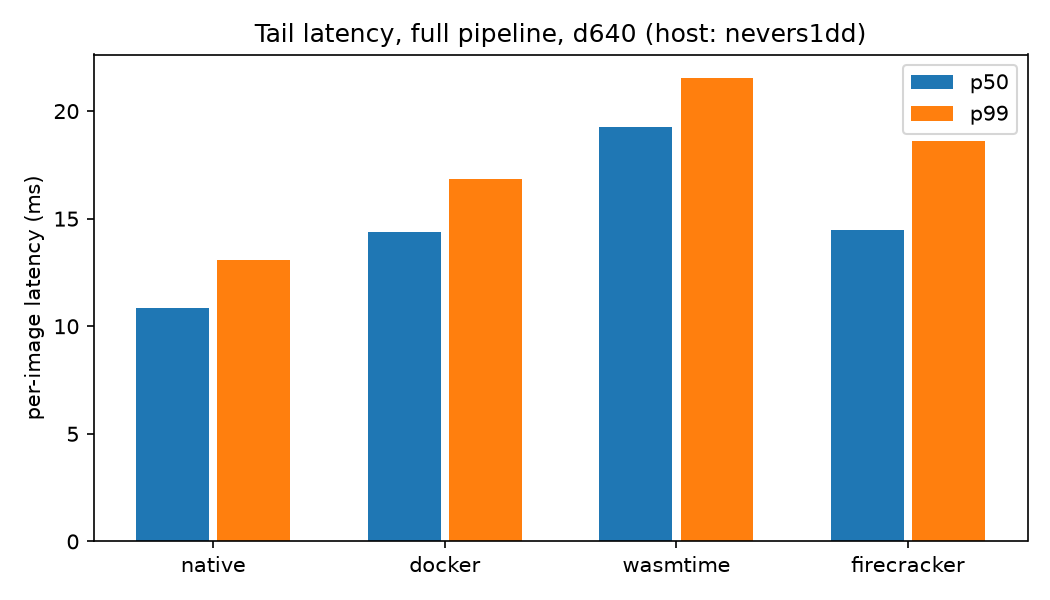
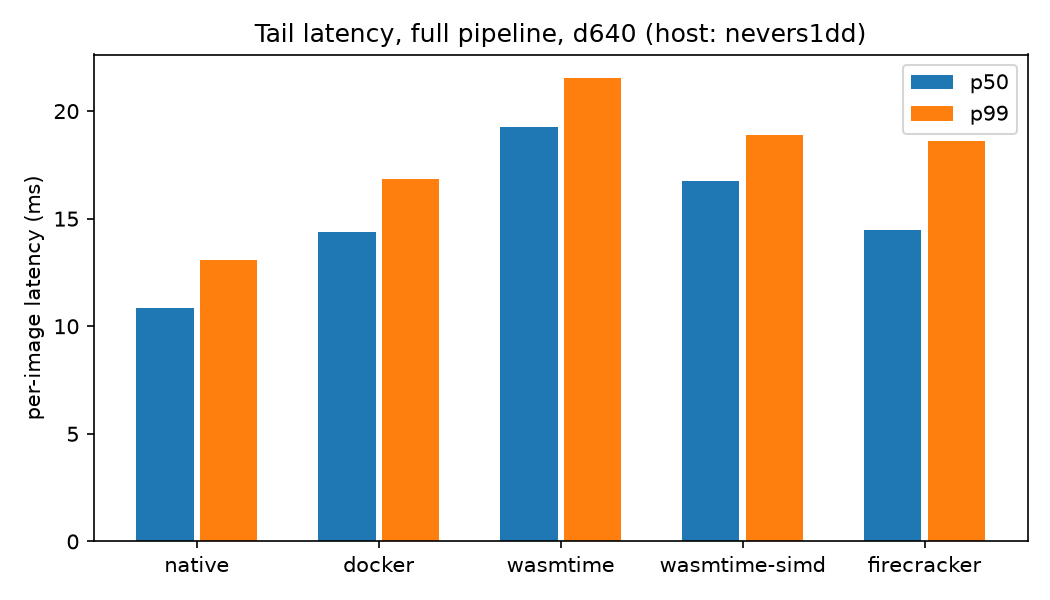
add wasmtime-simd target (+simd128 build): recovers 11-20% throughput, d640 gap narrows to -13.5%

diff --git a/scripts/bench.py b/scripts/bench.py
@@ -15,6 +15,7 @@ Targets:
   native      host binary (target/release/imgpipe)
   musl        static musl binary (what ships in the container/rootfs)
   wasmtime    wasmtime CLI with WASI preopens (tools/wasmtime/wasmtime)
+  wasmtime-simd  same module built with -C target-feature=+simd128
   docker      `docker run --rm imgpipe:local` (dataset baked into image)
   ctr-ctr     `sudo ctr run` runc container (image: localhost/cc-imgpipe:local)
   ctr-wasm    `sudo ctr run --runtime io.containerd.wasmtime.v1` (localhost/cc-imgpipe-wasm:local)
@@ -46,6 +47,7 @@ DATASETS = {
 BIN_NATIVE = os.path.join(ROOT, "target/release/imgpipe")
 BIN_MUSL = os.path.join(ROOT, "target/x86_64-unknown-linux-musl/release/imgpipe")
 BIN_WASM = os.path.join(ROOT, "target/wasm32-wasip1/release/imgpipe.wasm")
+BIN_WASM_SIMD = os.path.join(ROOT, "target-simd/wasm32-wasip1/release/imgpipe.wasm")
 WASMTIME = os.environ.get(
     "WASMTIME_BIN", os.path.join(ROOT, "tools/wasmtime/wasmtime")
 )
@@ -84,13 +86,14 @@ def build_cmd(target: str, mode: str, dataset: str, outdir: str, host_in: str = 
         return [BIN_NATIVE, "--mode", mode, "--in", in_dir, "--out", outdir]
     if target == "musl":
         return [BIN_MUSL, "--mode", mode, "--in", in_dir, "--out", outdir]
-    if target == "wasmtime":
+    if target in ("wasmtime", "wasmtime-simd"):
         os.makedirs(outdir, exist_ok=True)
+        wasm = BIN_WASM if target == "wasmtime" else BIN_WASM_SIMD
         return [
             WASMTIME, "run",
             f"--dir={in_dir}::/data/in",
             f"--dir={outdir}::/data/out",
-            BIN_WASM, "--",
+            wasm, "--",
             "--mode", mode, "--in", "/data/in", "--out", "/data/out",
         ]
     if target == "docker":
@@ -219,7 +222,7 @@ def run_parallel(target, mode, dataset, par):
     targets (docker/ctr) share the read-only in-image dataset."""
     import shutil
     shard_root = tempfile.mkdtemp(prefix=f"imgpipe-par{par}-")
-    host_path_target = target in ("native", "musl", "wasmtime")
+    host_path_target = target in ("native", "musl", "wasmtime", "wasmtime-simd")
     cmds = []
     for i in range(par):
         if host_path_target:

diff --git a/scripts/plot.py b/scripts/plot.py
@@ -31,12 +31,13 @@ COLORS = {
     "docker": "#1f77b4",
     "ctr-ctr": "#17becf",
     "wasmtime": "#d62728",
+    "wasmtime-simd": "#9467bd",
     "ctr-wasm": "#ff7f0e",
     "wasmedge": "#e377c2",
     "firecracker": "#2ca02c",
 }
-ORDER = ["native", "musl", "docker", "ctr-ctr", "wasmtime", "ctr-wasm",
-         "wasmedge", "firecracker"]
+ORDER = ["native", "musl", "docker", "ctr-ctr", "wasmtime", "wasmtime-simd",
+         "ctr-wasm", "wasmedge", "firecracker"]
 
 
 def load_rows(host_filter=None):
